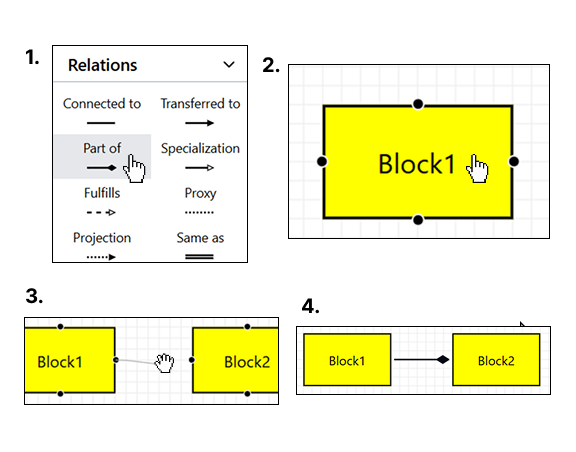
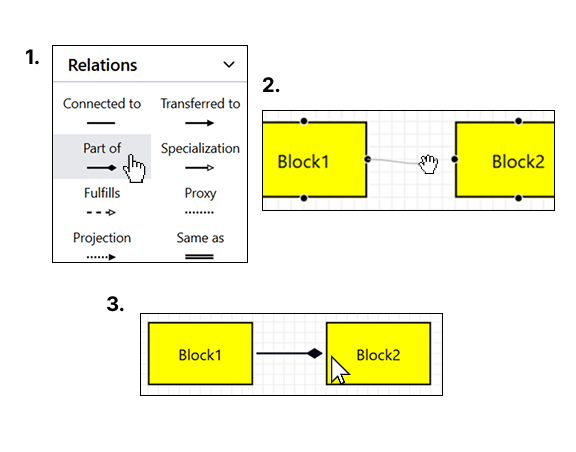
refactor: changed tutorial slide for relations to account for functional changes

diff --git a/client/src/components/ui/Navbar/HelpMenu/Tutorial.tsx b/client/src/components/ui/Navbar/HelpMenu/Tutorial.tsx
@@ -50,7 +50,7 @@ const Tutorial: React.FC<TutorialProps> = ({close}) => {
                                 <div className="flex flex-row items-center gap-4">
                                     <div className='mb-4 w-1/2'>
                                         <h2 className="text-lg font-semibold mb-2">Creating relations</h2>
-                                        <p className='mb-4'>Begin by selecting your relation type in the left sidebar. Then select an element, and drag from its handles to another elements handles.</p>
+                                        <p className='mb-4'>Enter selection mode from the toolbar or by selecting a relation type in the left sidebar. Then click and drag between the connection handles on the elements you want to connect.</p>
                                     </div>
                                     <div className="w-1/2 border-2 border-black">
                                         <img src="/tutorial-images/tutorial-3.png" alt="Tutorial 3" className="w-full"/>
